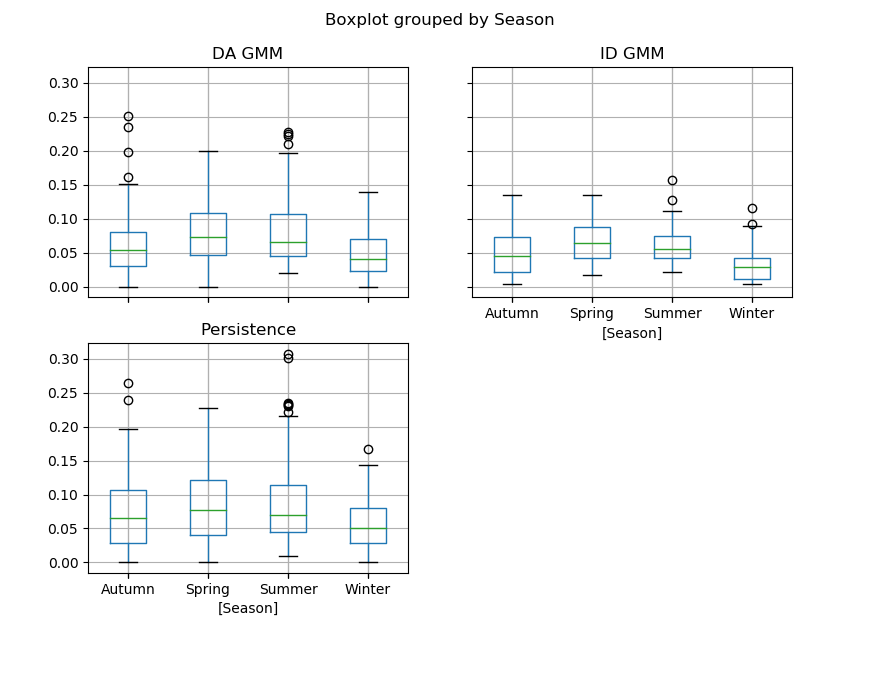
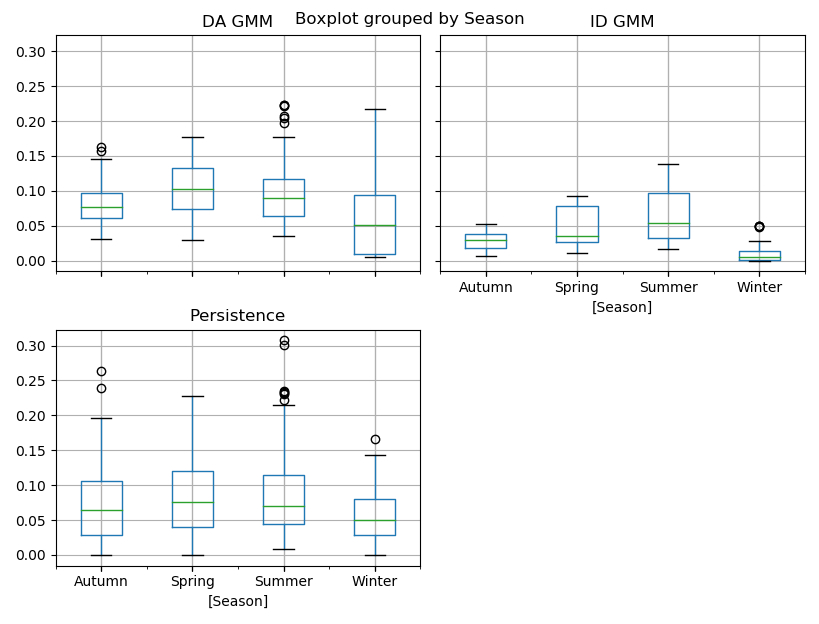
PV rev2

diff --git a/Forecasting/forecasting.py b/Forecasting/forecasting.py
@@ -78,42 +78,25 @@ def forecasts(pred,true,Forecast_Type):
         gmmMAE_Pred[i]=mean_absolute_error(pred.values, PV_DistsGMMChosen[Season][i][0:len(pred)])
     
     gmmMAE_Pred=gmmMAE_Pred.sort_values()
-    
-    #    bestFits=gmmMAE_Pred[gmmMAE_Pred<(gmmMAE_Pred.iloc[0]*1.15)]
-    WeightedNMAE=pd.Series(index=range(2,10))
-    for x in range(2,10):
-        GMMBestFit= PV_DistsGMMChosen[Season][gmmMAE_Pred.index[0:x]]
-        gmmMAE_True=pd.Series(index=range(0,len(GMMBestFit)))
-        
-        #Determine optimal number of fits to minimise the Weighter NMAE
-        for i in range(0,len(GMMBestFit)):
-            gmmMAE_True[i]=mean_absolute_error(true, GMMBestFit[i])
-    
-        weights_bestFits=PV_DistsGMMWeights[Season][gmmMAE_Pred.index[0:x]]
-        weights_bestFits=weights_bestFits/weights_bestFits.sum()
-        WeightedNMAE[x]=sum(gmmMAE_True*weights_bestFits)
-    
-    Fits_Nmin=WeightedNMAE.idxmin()
+
     GMMBestFit= PV_DistsGMMChosen[Season][gmmMAE_Pred.index[0]]#[0:Fits_Nmin]]
     weights_bestFits=PV_DistsGMMWeights[Season][gmmMAE_Pred.index[0]]#:Fits_Nmin]]
     weights_bestFits=weights_bestFits/weights_bestFits.sum()
     #print('GMM ' +str(Forecast_Type)+ ' Weighted NMAE with '+str(Fits_Nmin)+' Fits: ',round(WeightedNMAE[Fits_Nmin],3))
 
-    return GMMBestFit, gmmMAE_True, weights_bestFits, WeightedNMAE[Fits_Nmin],mae,Season
+    return GMMBestFit, gmmMAE_Pred[0],mae,Season
 
 #--------------------Visualise Forecast--------------------------#
 
     #Find best BMM fit
-def visualise_forecast(GMMBestFit,Forecast_Type,weights_bestFits,Day,GMM_NMAE,Persistence_NMAE):
+def visualise_forecast(GMMBestFit,Forecast_Type,Day,GMM_NMAE,Persistence_NMAE):
     plt.title('Day '+str(Day+1)+', MAE (Error): GMM-'+str(round(GMM_NMAE,3)),fontsize=9)
     if Forecast_Type=='Day Ahead':   
         plt.title('Day '+str(Day+1)+', MAE (Error): GMM-'+str(round(GMM_NMAE,3))+' Persistence:'+str(round(Persistence_NMAE,3)),fontsize=9)
         plt.plot(pred.values, label='Persistence Forecast',linestyle='--')
-    #for i in range(0,len(GMMBestFit)):
-    plt.plot(GMMBestFit, label='GMM Best Fit')#, linewidth=weights_bestFits[i]*2)
+    plt.plot(GMMBestFit, label='GMM Best Fit')
     plt.plot(true.values, label='Actual', color='black', linestyle=':', linewidth=2)
     times = ["00:00", "04:00", "08:00", "12:00", "16:00", "20:00", "24:00"]
-    #plt.ylabel('PV output normalised',fontsize=8)
     plt.xticks(range(0, 47, 8), times,fontsize=8)
     plt.ylim(0,1)
     plt.yticks(fontsize=8)
@@ -123,52 +106,57 @@ def visualise_forecast(GMMBestFit,Forecast_Type,weights_bestFits,Day,GMM_NMAE,Pe
 
 ### Date stuff ###
 
+#### Year #####
 startdate =  date(2013,11,7)
 enddate   =  date(2014,11,13)
-delta = datetime.timedelta(hours=0.5)
 days=range(0,365)
+
+### Week ###
+#startdate =  date(2014,7,1)
+#enddate   =  date(2014,7,10)
+#days=range(0,8)
+
+delta = datetime.timedelta(hours=0.5)
 dt = pd.date_range(startdate, enddate, freq=delta) #datetime steps    
 n=1
 DA_WeightedNMAE=pd.Series(index=days)
 ID_WeightedNMAE=pd.Series(index=days)
 DA_PersistanceNMAE=pd.Series(index=days)
-DA_weights_bestFits={}
-ID_weights_bestFits={}
 DA_GMMBestFit={}
 ID_GMMBestFit={}
-l=0
+
+
 Seasons=pd.Series(index=days)
 for i in days:
     print(i)
     pred=PV_DataFrame['Alverston Close']['P_Norm'][dt[i*48:(i+1)*48]]
     true=PV_DataFrame['Alverston Close']['P_Norm'][dt[(i+1)*48:(i+2)*48]]
     Forecast_Type='Day Ahead'
-    DA_GMMBestFit[i], gmmMAE_True, DA_weights_bestFits[i], DA_WeightedNMAE[i],DA_PersistanceNMAE[i],Season=forecasts(pred,true,Forecast_Type)
+    DA_GMMBestFit[i], DA_WeightedNMAE[i],DA_PersistanceNMAE[i],Season=forecasts(pred,true,Forecast_Type)
 #    plt.figure(Forecast_Type)
 #    plt.subplot(420+n)
-#    #visualise_forecast(DA_GMMBestFit[i],'Day Ahead',DA_weights_bestFits[i],i,DA_WeightedNMAE[i],DA_PersistanceNMAE[i])
+#    visualise_forecast(DA_GMMBestFit[i],'Day Ahead',i,DA_WeightedNMAE[i],DA_PersistanceNMAE[i])
 #    if n==1:
 #        plt.legend(fontsize=8)
     Forecast_Type='Intraday'
 #    plt.figure(Forecast_Type)
 #    plt.subplot(420+n)
     Intraday_True=true[0:20]
-    ID_GMMBestFit[i], gmmMAE_True, ID_weights_bestFits[i], ID_WeightedNMAE[i],blank,Season=forecasts(Intraday_True,true,'Intraday')
-#    visualise_forecast(ID_GMMBestFit[i],'Intraday',ID_weights_bestFits[i],i,ID_WeightedNMAE[i],0)
+    ID_GMMBestFit[i], ID_WeightedNMAE[i],blank,Season=forecasts(Intraday_True,true,'Intraday')
+#    visualise_forecast(ID_GMMBestFit[i],'Intraday',i,ID_WeightedNMAE[i],0)
 #    if n==1:
 #        plt.legend(fontsize=8)
 #    n=n+1
-#    l=l+1
     Seasons[i]=Season
 print('Average NMAE. Day ahead Persistence: ',round(DA_PersistanceNMAE.mean(),3),'Day Ahead GMM: ',round(DA_WeightedNMAE.mean(),3),'Intraday GMM: ',round(ID_WeightedNMAE.mean(),3))
 
 #plt.tight_layout()
 
-Summary=pd.DataFrame(index=days, columns=['DA GMM','Persistence','ID GMM','Season'])
-Summary['DA GMM']=DA_WeightedNMAE
-Summary['Persistence']=DA_PersistanceNMAE
-Summary['ID GMM']=ID_WeightedNMAE
-Summary['Season']=Seasons
-Summary['Season']=Summary['Season'].str[:-5]
-Summary['Season'][Summary['Season']=='Wint']='Winter'
-Summary.boxplot(by='Season')
+#Summary=pd.DataFrame(index=days, columns=['DA GMM','Persistence','ID GMM','Season'])
+#Summary['DA GMM']=DA_WeightedNMAE
+#Summary['Persistence']=DA_PersistanceNMAE
+#Summary['ID GMM']=ID_WeightedNMAE
+#Summary['Season']=Seasons
+#Summary['Season']=Summary['Season'].str[:-5]
+#Summary['Season'][Summary['Season']=='Wint']='Winter'
+#Summary.boxplot(by='Season')

diff --git a/Forecasting/README.md b/Forecasting/README.md
@@ -22,21 +22,25 @@ Below is the Day Ahead forecast for the 8 days from 2/7/2014 using data from the
 
 The forecasts are for the site 'Averston Close' which was removed from the training data to allow it to be used for testing.
 
-![Day Ahead](Day_Ahead2.png)
+![Day Ahead](Day_Ahead.png)
 
 **Figure 1:** Alverston Close PV Day Ahead forecast 
 
-The average Day Ahead persistence Mean Absolute Error (MAE) across all 8 of the days above is 0.136, and the Day Ahead weighted gaussian mixture MAE, which is created from the persistence forcast is 0.111.
+As the outputs are already normalised we can express the error as the Normalised Mean Absolute Error (NMAE).
+
+The average Day Ahead persistence NMAE across all 8 of the days above is 0.136, and the Day Ahead weighted gaussian mixture NMAE, which is created from the persistence forcast is 0.129.
+
+$ \sum_{\forall i}{x_i^{2}} $
 
 The highest Day Ahead persistence and GMM error comes on Day 1 which has no output. Day 2 also has a very high error as it is using Day 1's output (of 0) to as its estimate when there was in fact a very high output on Day 2.
 
 The intraday forecasts estimated using the first 10 hours of daily output, are vital on Days 1 and 2 for correcting this Day Ahead error, these are given below:
 
-![Intraday](Intraday2.png)
+![Intraday](Intraday.png)
 
 **Figure 2:** Alverston Close PV intraday forecast
 
-The average Intraday GMM forecast MAE across all sites is 0.076. The Intraday GMM provides an improved forecast than the Day Ahead on these 8 days,
+The average Intraday GMM forecast NMAE across all sites is 0.091. The Intraday GMM provides an improved forecast than the Day Ahead on these 8 days,
 The intraday forecast is most useful for capturing days with no output as occured on Day 1 where the error is reduced from 0.228 to 0.047 from DA to ID.
 
 ### PV Forecasting Error Box Plots
@@ -45,13 +49,13 @@ The forecast error is calculated over a year to give the range of expected error
 
 The Mean Absolute Errors for day ahead persistence and gaussian mixture model (GMM) as well as the GMM intraday mean errors are as follows;
 
-Method | Mean Absolute Error
+Method | Normalised Mean Absolute Error
 -------|--------------------
 DA Persistence| 0.076
-DA GMM|0.067
-DA ID|0.052
+DA GMM|0.086
+DA ID|0.038
 
-The GMM provides a slight improvement over the persistence forecast for DA. An obvious improvement would be to use weather forecasts (irradiance or temperature), however the level of accuracy using GMM is sufficient and the gains to be made from improving the method may not warrant the effort involved.
+The GMM performs slightly worse on average than the persistence forecast for DA. An obvious improvement would be to use weather forecasts (irradiance or temperature), however the level of accuracy using GMM is sufficient and the gains to be made from improving the method may not warrant the effort involved.
 
 The range of possible errors for each method is shown by season in the box plots below. 
 
@@ -59,6 +63,11 @@ The range of possible errors for each method is shown by season in the box plots
 
 **Figure 3:** Mean Absolute Error for forecasting methods by season
 
-The persistence forecast has the highest maximum error in all seasons, The DA GMM provides a significant improvement (~5% reduction) in maximum error compared to DA persistence in Autumn.
+The persistence forecast has the highest maximum error in all seasons bar winter where the GMM performs particularly badly, The DA GMM provides a significant improvement (~5% reduction) in maximum error compared to DA persistence in Autumn.
 
-The Intraday GMM forecast has much tighter error distributions particularly in summer where the maximum error is a little over 0.11 compared to over 0.2 for the Day ahead methods. Given that PV output is at its highest in Summer, this improved intraday forecast will be particularly useful in reducing uncertainty of network congestion caused by high PV output.
+Although the GMM has a higher NMAE, and seems to perform worse than persistence DA forecast in summer, it generally has a tighter error distribution (bar summer). It is worth investigating if it tends to over or under predict, overpredicting could be useful for more conservative estimates. 
+
+The Intraday GMM forecast has much tighter error distributions particularly in summer where the maximum error is 0.14 compared to over 0.2 for the Day ahead methods (including outliers). Given that PV output is at its highest in Summer, this improved intraday forecast will be particularly useful in reducing uncertainty of network congestion caused by high PV output.
+
+### PV error timeseries
+
